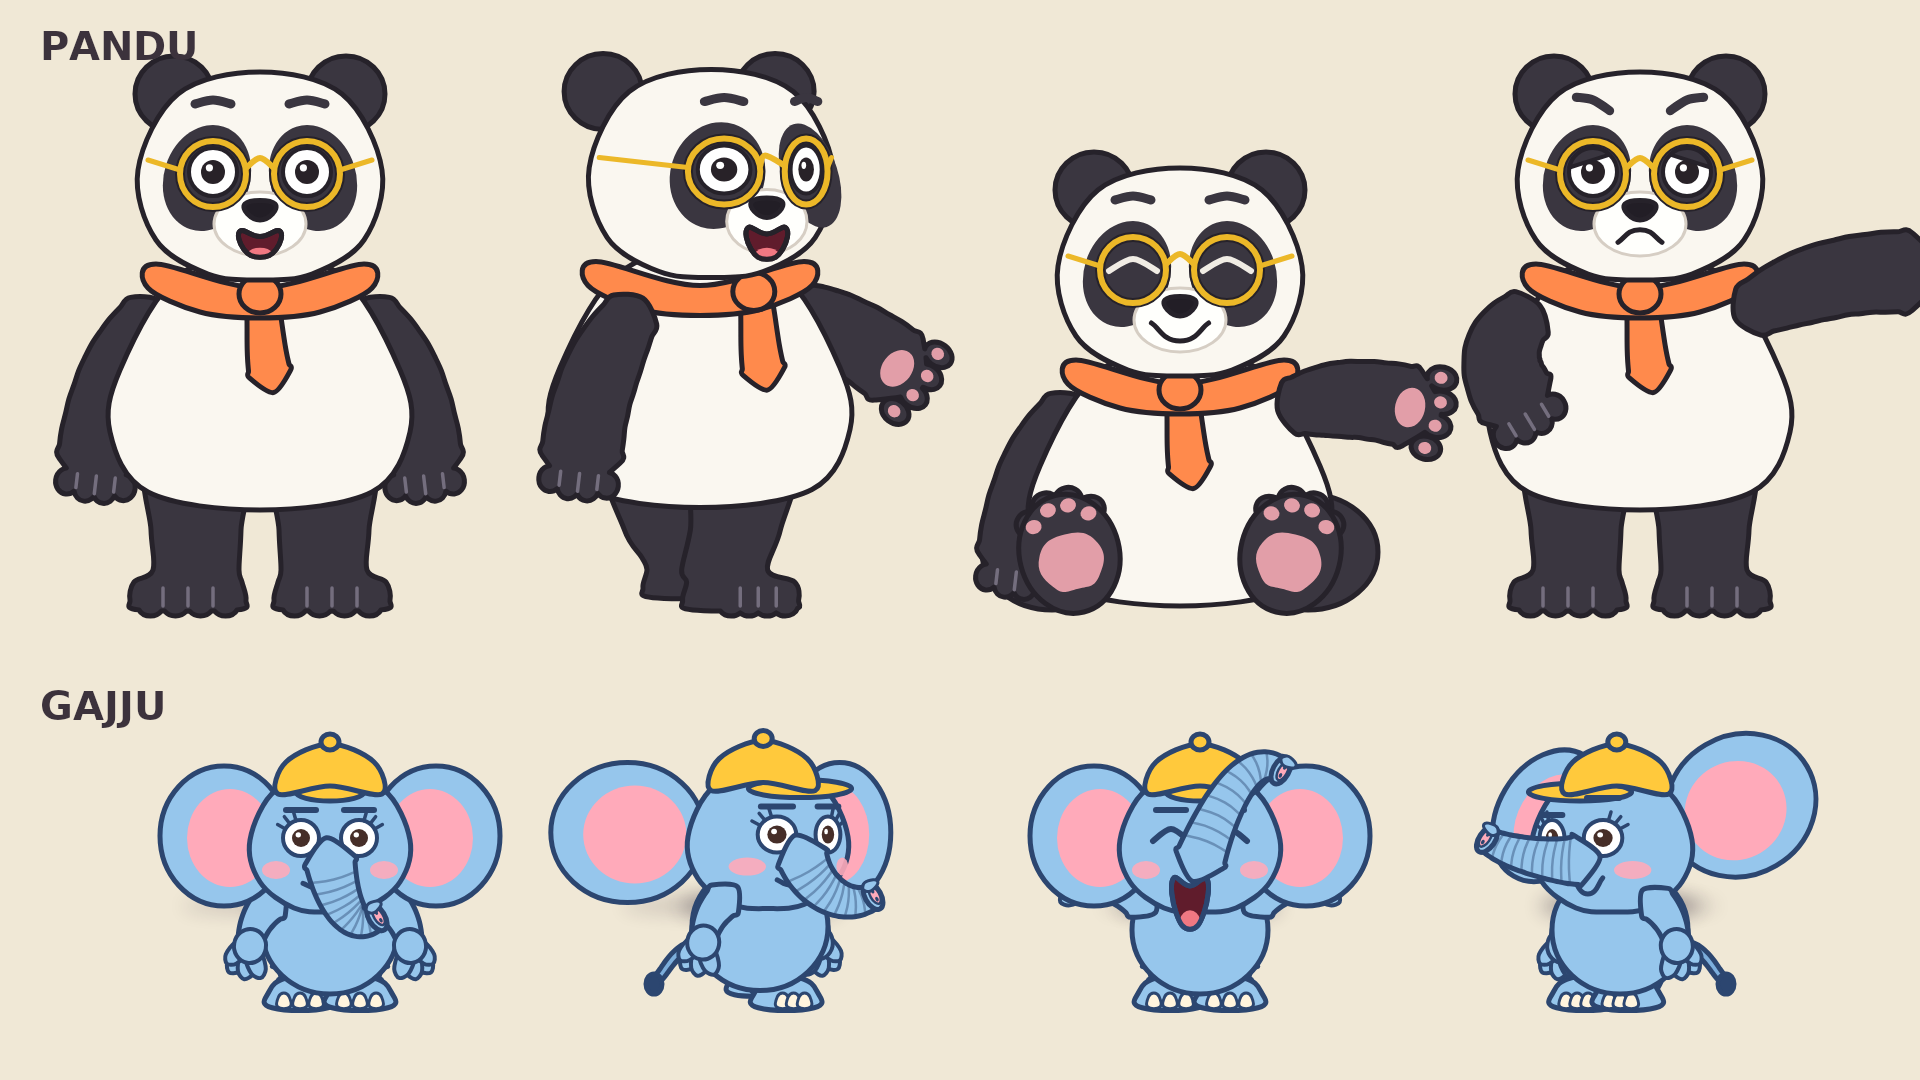
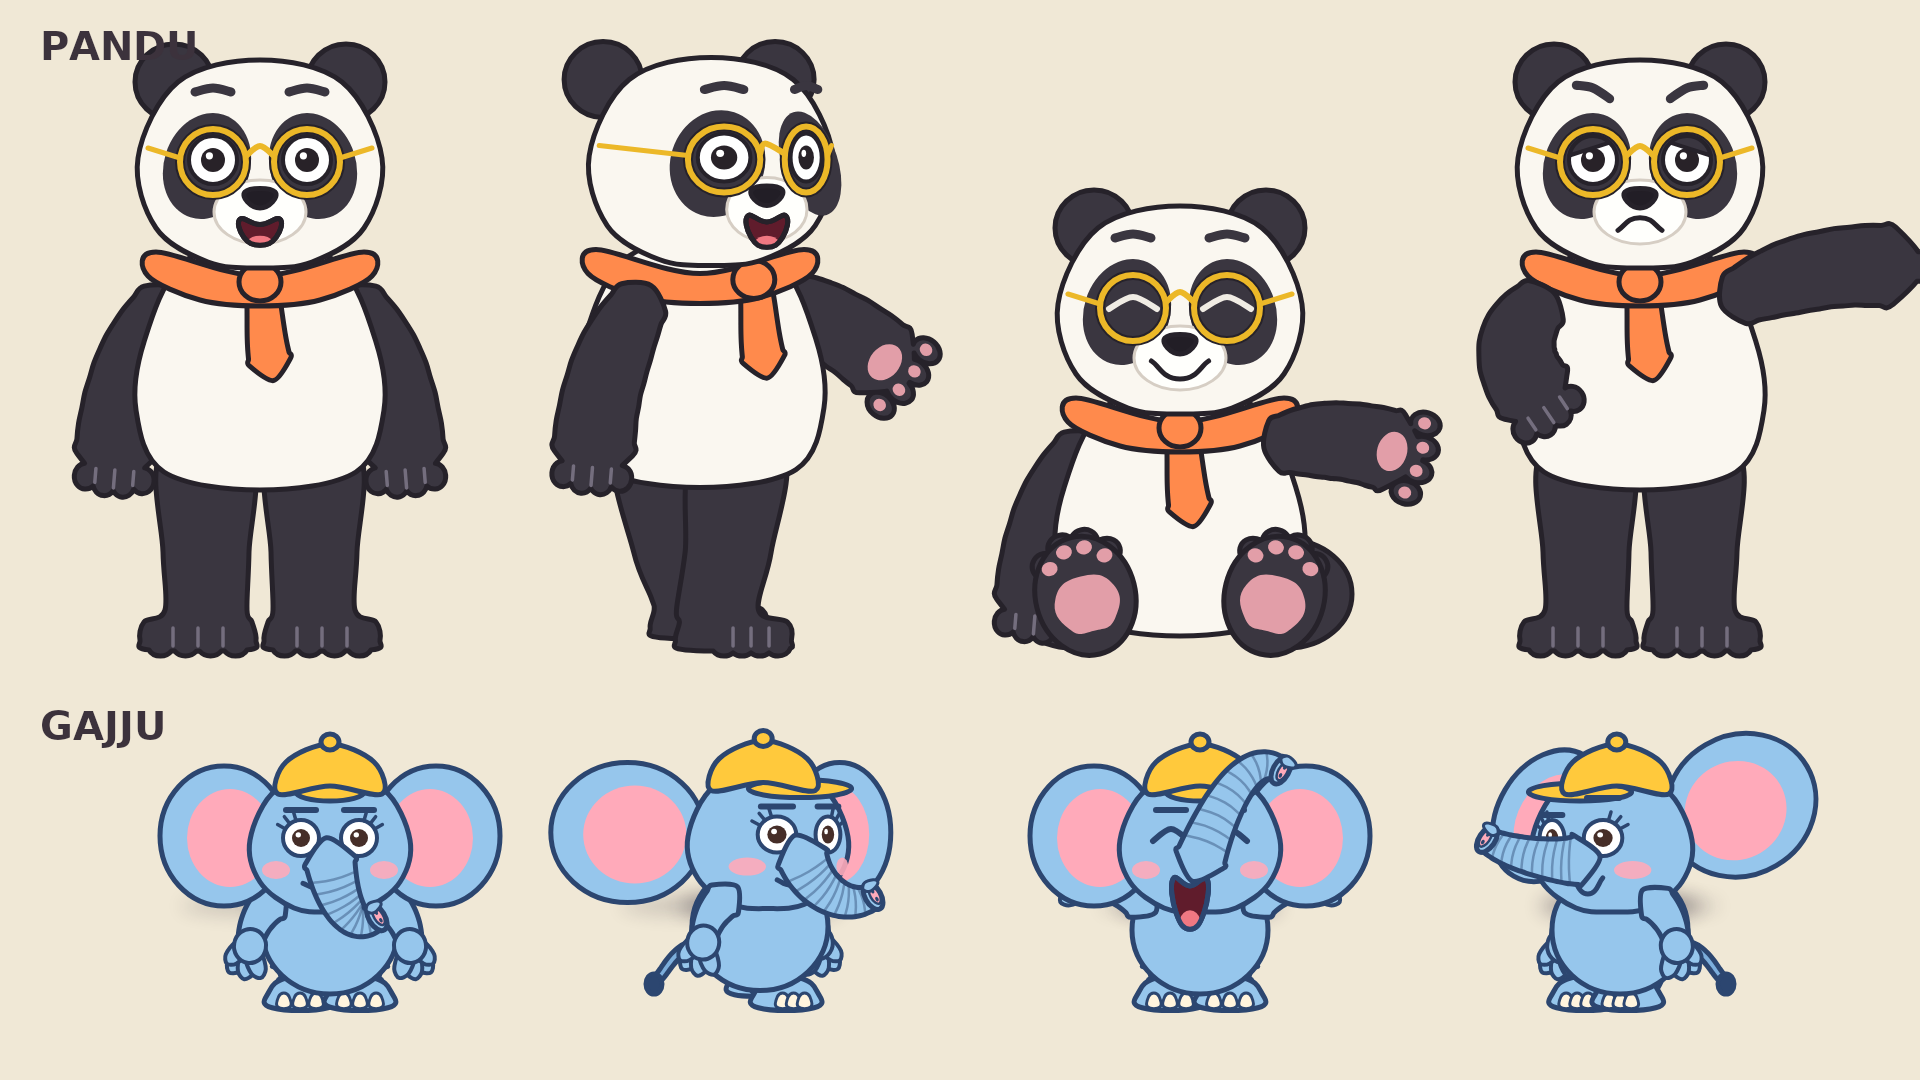
toon-slapstick: Pandu with longer legs and a slimmer belly
Claude-Session: https://claude.ai/code/session_018VuxnBXncPZTi5D3KQ9gYK

diff --git a/toon-slapstick/engine/chars.py b/toon-slapstick/engine/chars.py
@@ -183,8 +183,8 @@ class Pandu(Character):
     """The original Pandu face and body (round head, big eye patches, gold glasses, orange scarf)
     on natural panda limbs: thick forelegs that hang from behind the shoulders and end in a broad
     paw with short toes, and sturdy straight hind legs with flat, toed feet."""
-    HEIGHT = 560
-    shadow = 150
+    HEIGHT = 610
+    shadow = 135
     INK = (38, 34, 42)
     STREAK = (250, 248, 240)
     WHITE = (250, 247, 240)
@@ -193,13 +193,13 @@ class Pandu(Character):
     PAD = (226, 158, 168)
     GOLD = (236, 184, 40)
     SCARF = (255, 138, 76)
-    UP = 60                     # how far the upper body sits above the old short-legged design
+    UP = 112                    # how far the upper body sits above the old short-legged design
     POSE = dict(Character.POSE, glasses_dy=0.0, glasses_rot=0.0, scarf_fly=0.0, sit=0.0, glasses=1.0, bendL=0.14, bendR=0.14)
 
     def _arm(self, g, p, side, key):
         face = p['face']
-        sh = (side * 108 * (1 - 0.5 * abs(face)), -238 - self.UP)
-        rest = (side * 54, 150)
+        sh = (side * 94 * (1 - 0.5 * abs(face)), -238 - self.UP)
+        rest = (side * 50, 156)
         off = p[key]
         hand = (sh[0] + rest[0] + off[0], sh[1] + rest[1] + off[1])
         bend = -p['bendL' if side < 0 else 'bendR'] * side
@@ -244,7 +244,9 @@ class Pandu(Character):
 
     def _hindlegs(self, g, p):
         st, amp, face = p['step'], p['stride'], p['face']
-        for i, hx0 in enumerate((-64, 64)):
+        T = -(self.UP + 84)                              # top of the leg, hidden inside the body
+        M = T * 0.5
+        for i, hx0 in enumerate((-54, 54)):
             ph = 2 * math.pi * (st + i * 0.5)
             key = 'footL' if i == 0 else 'footR'
             dx = amp * math.cos(ph) + p[key][0]
@@ -254,9 +256,9 @@ class Pandu(Character):
             fx, fy = hx + dx + face * 6, -lift
             fo = face * 20 + (0 if abs(face) > 0.2 else side * 8)
             k = (fx - hx) * 0.5
-            leg = smooth([(hx - 46, -150), (hx + 46, -150), (hx + 45 + k, -80), (fx + 43, fy - 40),
+            leg = smooth([(hx - 44, T), (hx + 44, T), (hx + 43 + k, M), (fx + 41, fy - 40),
                           (fx + 54 + fo, fy - 28), (fx + 58 + fo, fy - 10), (fx + 48 + fo, fy), (fx - 48 + fo, fy), (fx - 58 + fo, fy - 10), (fx - 54 + fo, fy - 28),
-                          (fx - 43, fy - 40), (hx - 45 + k, -80)], True, 0.5)
+                          (fx - 41, fy - 40), (hx - 43 + k, M)], True, 0.5)
             for kk in (-1.5, -0.5, 0.5, 1.5):               # four toes across the front of the foot
                 tx = fx + fo + face * 22 + kk * 25 * (1 - 0.35 * abs(face))
                 u = skia.Op(leg, oval(tx, fy - 5, 13, 11), skia.kUnion_PathOp)
@@ -286,12 +288,12 @@ class Pandu(Character):
         sit = p['sit'] > 0.5
         if sit:
             for s in (-1, 1):
-                self._ink(g, oval(s * 128, -58, 70, 58), self.BLACK)
+                self._ink(g, oval(s * 108, -56, 64, 54), self.BLACK)
         elif p['wheel'] > 0.5:
-            self._legs(g, p, [(-64, -150), (64, -150)], -26, 56, 26, 38, self.BLACK)
+            self._legs(g, p, [(-54, -(self.UP + 70)), (54, -(self.UP + 70))], -26, 56, 26, 36, self.BLACK)
         else:
             self._hindlegs(g, p)
-        g.push(0, bob + (96 if sit else 0))
+        g.push(0, bob + (U + 34 if sit else 0))
 
         def in_front(key, side):
             if abs(face) > 0.35:
@@ -303,9 +305,9 @@ class Pandu(Character):
             if not in_front(key, side):
                 self._arm(g, p, side, key)
         if abs(face) > 0.35:
-            self._ink(g, oval(-face * 140, -92 - U, 24, 22), self.WHITE)
-        body = smooth([(0, -300 - U), (84, -272 - U), (140, -180 - U), (150, -118 - U), (112, -58 - U), (0, -40 - U),
-                       (-112, -58 - U), (-150, -118 - U), (-140, -180 - U), (-84, -272 - U)], True, 0.5)
+            self._ink(g, oval(-face * 116, -96 - U, 22, 20), self.WHITE)
+        body = smooth([(0, -300 - U), (78, -274 - U), (116, -196 - U), (124, -128 - U), (96, -66 - U), (0, -48 - U),
+                       (-96, -66 - U), (-124, -128 - U), (-116, -196 - U), (-78, -274 - U)], True, 0.5)
         self._ink(g, body, self.WHITE)
         # scarf
         kx = face * 46 + p['yaw'] * 20
@@ -365,7 +367,7 @@ class Pandu(Character):
         self.anchors['belly'] = g.pt(0, -150 - U)
         g.pop()
         if sit:
-            self._sole(g, -112, -62, -1); self._sole(g, 112, -62, 1)
+            self._sole(g, -96, -60, -1); self._sole(g, 96, -60, 1)
         self.end(g)
 
 
